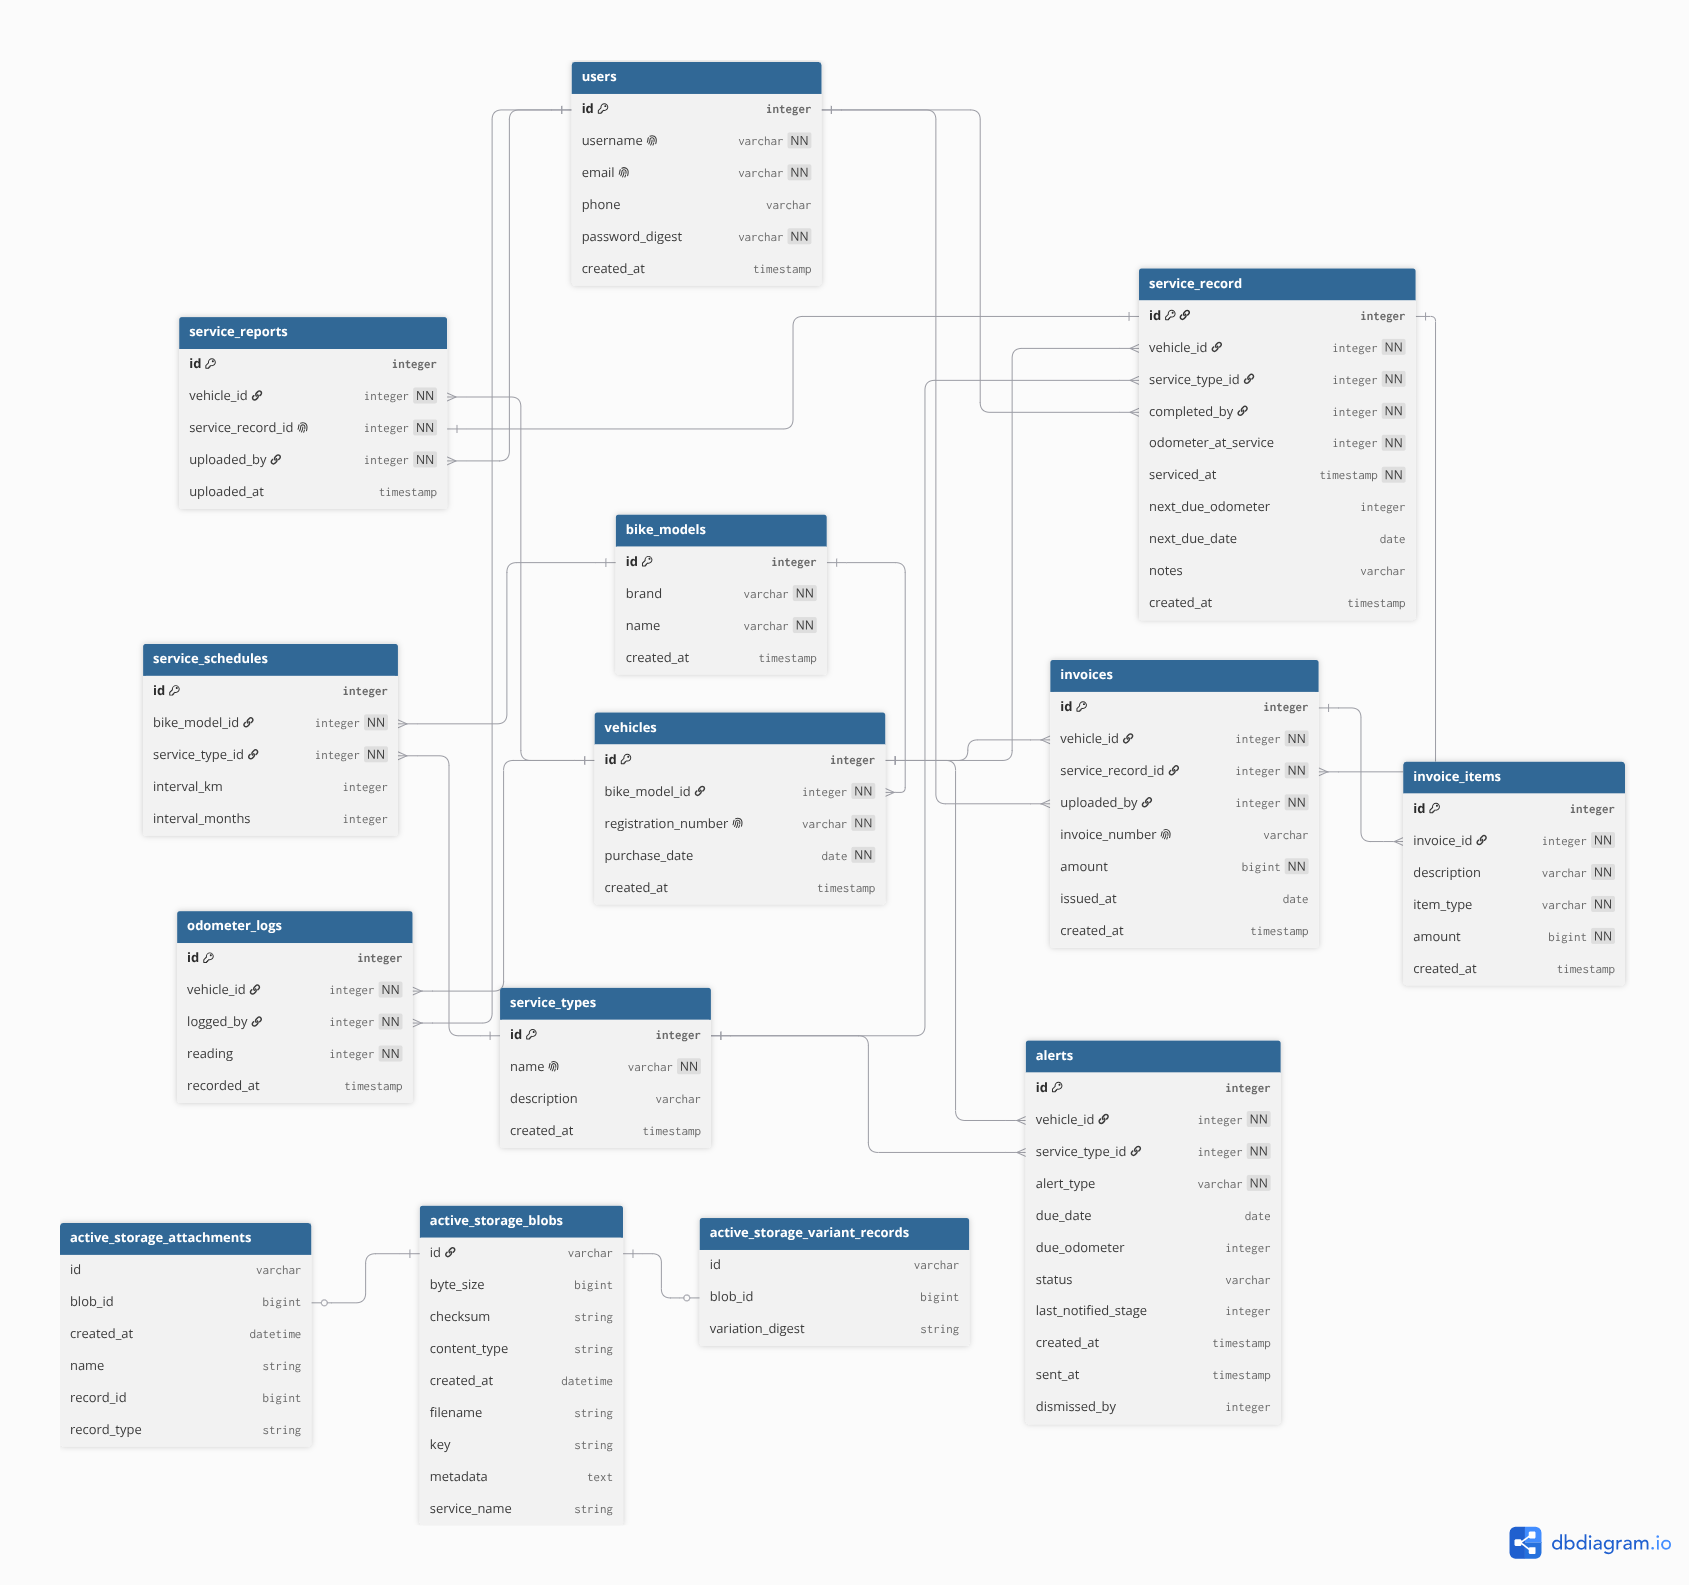
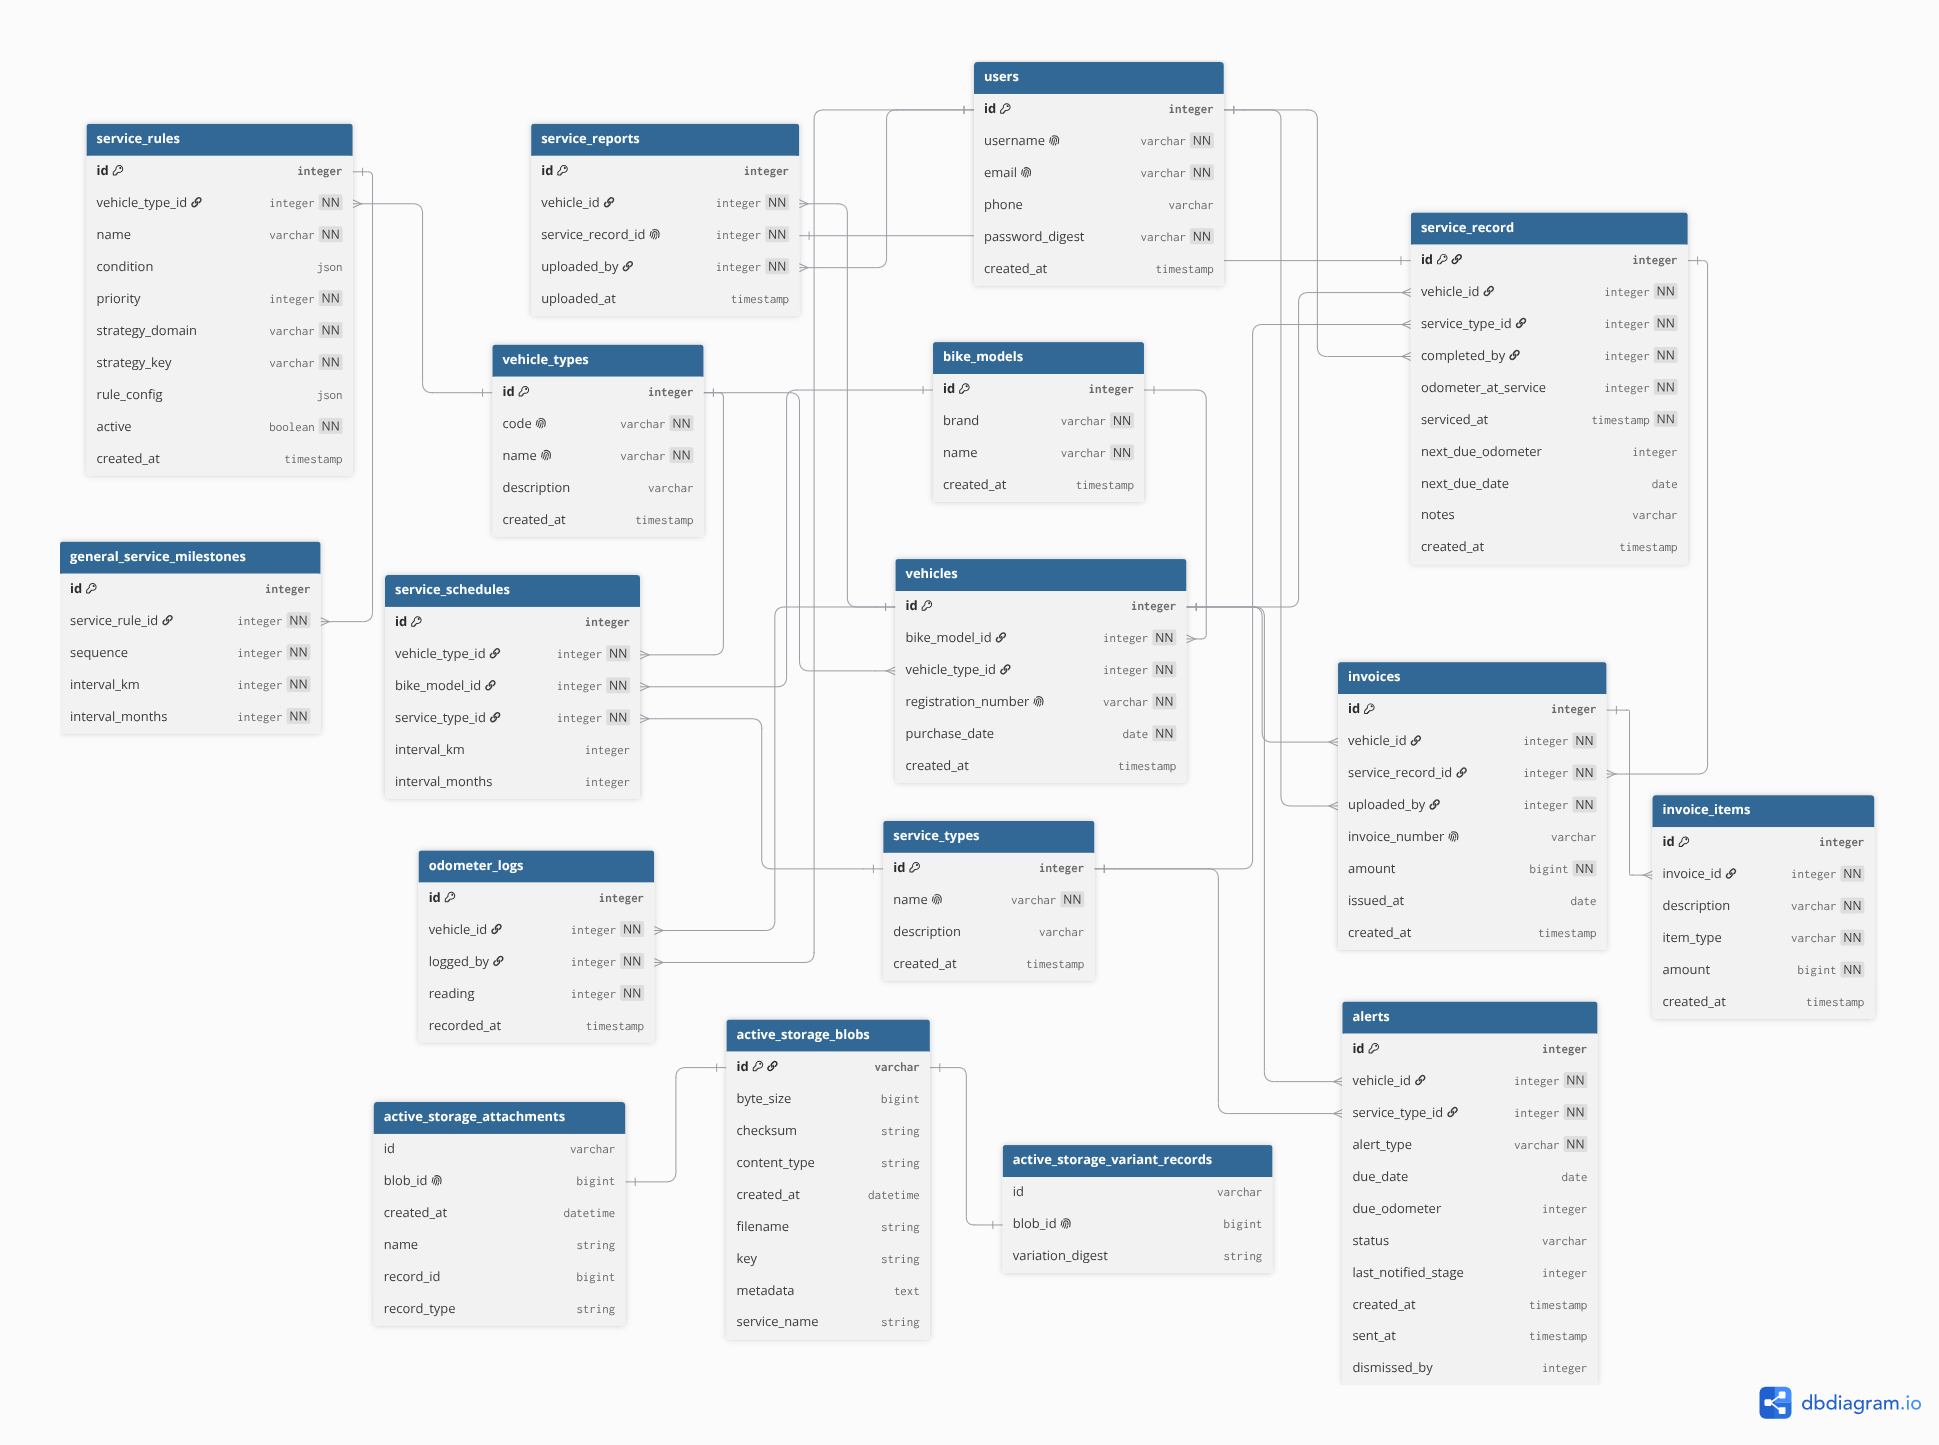
final stage completed

diff --git a/app/services/odometer_logger.rb b/app/services/odometer_logger.rb
@@ -44,9 +44,30 @@ class OdometerLogger
             end
         end
 
-        odometer_log = vehicle.odometer_logs.create(odometer_logger: logged_by, reading: reading, recorded_at: Time.current)
-        return ServiceResult.error(odometer_log.errors.full_messages.join(", ")) unless odometer_log.persisted?
+        odometer_log = nil
+        error_message = nil
 
-        ServiceResult.success(odometer_log)
+        ActiveRecord::Base.transaction do
+            odometer_log = vehicle.odometer_logs.create(
+                odometer_logger: logged_by, 
+                reading: reading, 
+                recorded_at: Time.current
+            )
+            unless odometer_log.persisted?
+                error_message = odometer_log.errors.full_messages.join(", ")
+                raise ActiveRecord::Rollback
+            end
+
+            unless vehicle.update(odometer_reading: reading)
+                error_message = vehicle.errors.full_messages.join(", ")
+                raise ActiveRecord::Rollback
+            end
+        end
+
+        if odometer_log&.persisted?
+            ServiceResult.success(odometer_log)
+        else
+            ServiceResult.error(error_message || "Could not complete the service")
+        end
     end
 end

diff --git a/app/services/service_rule_resolver.rb b/app/services/service_rule_resolver.rb
@@ -4,9 +4,14 @@ class ServiceRuleResolver
 
     # service_type-based conditions checked first, regardless of priority
     service_type_match = candidate_rules.find do |rule|
-      rule.condition.present? && rule.condition["service_type_name"].present? && 
-      rule.condition["service_type_name"] == service_type&.name
+      next false unless rule.condition.is_a?(Hash) && rule.condition["service_type_name"] == service_type&.name
+      cutoff_satisfies?(vehicle, rule.condition)
     end
+    
+    # service_type_match = candidate_rules.find do |rule|
+    #   rule.condition.present? && rule.condition["service_type_name"].present? && 
+    #   rule.condition["service_type_name"] == service_type&.name
+    # end
 
     return service_type_match if service_type_match
 
@@ -30,6 +35,13 @@ class ServiceRuleResolver
       threshold_date = Date.parse(condition["purchase_date_before"])
       return vehicle.purchase_date < threshold_date
     end
+  end
+
+  def cutoff_satisfies?(vehicle, condition)
+    cutoff = condition["purchase_date_on_or_after"]
+    return true if cutoff.blank?
+
+    vehicle.purchase_date >= Date.parse(cutoff)
   end
 
 end

diff --git a/app/models/vehicle.rb b/app/models/vehicle.rb
@@ -1,14 +1,15 @@
 class Vehicle < ApplicationRecord
     before_validation :normalize_registration_number
 
-    # validates :registration_number,
-    #             presence: true, uniqueness: true,
-    #             format: {
-    #                 with: /\A[A-Z]{2}\s?\d{2}\s?[A-Z]{1,2}\s?\d{4}\z/,
-    #                 message: "Must be in the format KA01AB1234 or KA 01 AB 1234"
-    #             }
+    validates :registration_number,
+                presence: true, uniqueness: true,
+                format: {
+                    with: /\A[A-Z]{2}\s?\d{2}\s?[A-Z]{1,2}\s?\d{4}\z/,
+                    message: "Must be in the format KA01AB1234 or KA 01 AB 1234"
+                }
     validates :registration_number, presence: true, uniqueness: true
     validates :purchase_date, presence: true
+    validates :odometer_reading, presence: true
     
     belongs_to :bike_model
     belongs_to :vehicle_type

diff --git a/db/schema.rb b/db/schema.rb
@@ -10,7 +10,7 @@
 #
 # It's strongly recommended that you check this file into your version control system.
 
-ActiveRecord::Schema[8.1].define(version: 2026_08_03_131630) do
+ActiveRecord::Schema[8.1].define(version: 2026_08_06_083742) do
   create_table "active_storage_attachments", force: :cascade do |t|
     t.bigint "blob_id", null: false
     t.datetime "created_at", null: false
@@ -200,6 +200,7 @@ ActiveRecord::Schema[8.1].define(version: 2026_08_03_131630) do
   create_table "vehicles", force: :cascade do |t|
     t.integer "bike_model_id", null: false
     t.datetime "created_at", null: false
+    t.integer "odometer_reading", null: false
     t.date "purchase_date", null: false
     t.string "registration_number", null: false
     t.datetime "updated_at", null: false

diff --git a/app/services/vehicle_registrar.rb b/app/services/vehicle_registrar.rb
@@ -38,7 +38,8 @@ class VehicleRegistrar
                 bike_model: bike_model,
                 vehicle_type: vehicle_type,
                 registration_number: registration_number,
-                purchase_date: purchase_date
+                purchase_date: purchase_date,
+                odometer_reading: reading
             )
             unless vehicle.persisted?
                 error_message = vehicle.errors.full_messages.join(", ")

diff --git a/app/services/due_target_strategies/model_schedule_strategy.rb b/app/services/due_target_strategies/model_schedule_strategy.rb
@@ -1,7 +1,9 @@
 module DueTargetStrategies
   class ModelScheduleStrategy < BaseStrategy
 
-    def resolve(vehicle:, service_type:, schedule:)
+    def resolve(vehicle:, service_type:, schedule: nil)
+      return { due_km: nil, due_date: nil } if schedule.nil?
+
       last_service = vehicle.service_records
                     .where(service_type_id: service_type.id)
                     .order(created_at: :desc)

diff --git a/app/services/stage_strategies/km_or_time_strict_strategy.rb b/app/services/stage_strategies/km_or_time_strict_strategy.rb
@@ -4,7 +4,7 @@ module StageStrategies
     def compute_stage(due_km:, current_km:, interval_km:, due_date:)
       effective_interval_km = config["interval_km"] || interval_km
 
-      km_stage = compute_km_stage(due_km, current_km, interval_km)
+      km_stage = compute_km_stage(due_km, current_km, effective_interval_km)
       date_stage = compute_date_stage(due_date)
 
       if date_stage > km_stage

diff --git a/app/services/service_completion_service.rb b/app/services/service_completion_service.rb
@@ -115,6 +115,11 @@ class ServiceCompletionService
         raise ActiveRecord::Rollback
       end
 
+      unless vehicle.update(odometer_reading: odometer_reading)
+        error_message = vehicle.errors.full_messages.join(", ")
+        raise ActiveRecord::Rollback
+      end
+
       service_record = ServiceRecord.create(
         vehicle: vehicle,
         service_type: service_type,

diff --git a/db/migrate/20260806083742_change_reading_column_null_in_vehicles.rb b/db/migrate/20260806083742_change_reading_column_null_in_vehicles.rb
@@ -1,0 +1,5 @@
+class ChangeReadingColumnNullInVehicles < ActiveRecord::Migration[8.1]
+  def change
+    change_column_null :vehicles, :odometer_reading, false
+  end
+end

diff --git a/db/migrate/20260806080835_add_odometer_reading_column_to_vehicles.rb b/db/migrate/20260806080835_add_odometer_reading_column_to_vehicles.rb
@@ -1,0 +1,5 @@
+class AddOdometerReadingColumnToVehicles < ActiveRecord::Migration[8.1]
+  def change
+    add_column :vehicles, :odometer_reading, :integer
+  end
+end

diff --git a/docs/services/rule-based-scheduling.md b/docs/services/rule-based-scheduling.md
@@ -1,0 +1,112 @@
+# Rule-Based Scheduling
+
+
+## Purpose
+
+Different vehicle types — and different age cohorts within the same vehicle type — need different due-service logic, without a code change every time a new type or cohort is introduced. This workflow externalizes that logic into data (service_rules), resolved per vehicle at check time, and dispatched to a small set of interchangeable strategy classes.
+
+
+## Source
+- `app/services/service_rule_resolver.rb`
+- `app/services/stage_strategies/*.rb`
+- `app/services/stage_strategy_registry.rb`
+- `app/services/due_target_strategies/*.rb`
+- `app/services/due_target_strategy_registry.rb`
+- `app/models/vehicle_type.rb`
+- `app/models/service_rule.rb`
+- `app/models/general_service_milestone.rb`
+
+
+## Vehicle Types
+
+`vehicle_types` is a lookup table answering what a vehicle commercially is (for example, `RB` — Rental Bike, `MBS` — Managed Bike Subscription). Every vehicle belongs to exactly one type via `vehicles.vehicle_type_id`. Vehicle type is a property of the individual vehicle, not of its bike model — two vehicles of the same model can belong to different types and follow entirely different scheduling logic.
+
+No behavior lives on `vehicle_types` itself. It exists only to be filtered on
+when resolving rules.
+
+
+## Two Kinds of Question, Two Domains
+
+Due-service logic answers two genuinely different questions, and this workflow keeps them structurally separate rather than combining them into one algorithm:
+
+| Domain | Question it answers | Inputs | Output |
+| ------ | ------------------- | ------ | ------ |
+| `due_target` | What are the due odometer reading and due date, right now, for this vehicle and service type? | vehicle, service type, schedule/milestones | `due_km`, `due_date` |
+| `stage` | Given those due targets and the current odometer reading, how urgent is this — and does the date even matter? | `due_km`, `current_km`, `due_date`, `interval_km` | a stage (0–3) and which factor drove it |
+
+A `due_target` strategy's output always feeds directly into a stage strategy's input. Neither strategy type is aware the other exists — the checkers (`DueServiceCheckerV2`, `GeneralServiceChecker`) are what wire the
+two together, in that order, for every vehicle and service type.
+
+This split is why a vehicle type like MBS can ignore due dates entirely (its `stage` strategy never looks at `due_date`) while still using the exact same `due_target` logic as everything else — and why general checkups can use an entirely different way of computing due targets (a milestone list instead of a repeating interval) while reusing the same urgency judgment as every other service type.
+
+## `service_rules`
+
+Each row maps a condition to a strategy, scoped to one vehicle type and one domain.
+
+| Column | Meaning |
+| ------ | ------- |
+| `vehicle_type_id` | Which vehicle type this rule applies to.
+| `strategy_domain` | `stage` or `due_target` — which question this rule answers. |
+| `condition` | JSON describing when this rule applies. `null` means it is the fallback for this vehicle type and domain. |
+| `priority` | Used to disambiguate between multiple matching date-based conditions — higher priority is checked first. |
+| `strategy_key` | Looked up in the matching domain's registry to find the handler class. |
+| `rule_config` | Tunables the strategy needs (for example, an interval override). |
+| active | Inactive rules are never resolved. |
+
+
+### Resolution Order
+
+Resolution checks conditions in two independent tiers, then falls back:
+
+```
+1. Any rule whose condition names a specific service_type — checked first, regardless of priority, since this is a different kind of specificity than age-based cohorts and should not compete with them on the same scale
+2. Any rule with a purchase_date_before condition matching the vehicle, checked in order of priority (a tighter cutoff should be given a higher priority than a looser one, so the more specific cohort wins when a vehicle satisfies both)
+3. The fallback rule for this vehicle type and domain (condition: null)
+```
+
+If no rule matches at any tier, including the fallback, resolution raises an error rather than returning nothing — this indicates a configuration gap (a vehicle type was added without seeding its rules, or the only fallback was deactivated), which should surface immediately rather than silently stop alerting for a subset of the fleet.
+
+### Adding a New Cohort or Vehicle Type
+
+Adding a new age-based cohort, or a new vehicle type, requires no code change — only new `service_rules` rows (and, for a new vehicle type, matching `service_schedules` rows). Adding genuinely new behavior — a scheduling
+approach that doesn't fit any existing strategy — requires one new strategy class and a registry entry, not a schema change.
+
+
+## Strategy Registries
+
+Each domain has its own registry, deliberately kept separate so a `strategy_key` can never be resolved against the wrong domain's handlers.
+
+| Domain | `strategy_key` | Behavior |
+| ------ | -------------- | -------- |
+| `stage`	| `km_or_time` | Combines km-urgency and date-urgency; the higher stage wins. Default for RB. |
+| `stage`	| `km_or_time_strict` | Same combination, tighter thresholds and/or a shorter interval, for an older cohort. |
+| `stage`	| `km_only` | Considers only km-urgency; date is never evaluated. Default for MBS. |
+| `stage`	| `km_only_conservative` | Same as `km_only`, with a shorter interval for an older cohort. |
+| `due_target` | `model_schedule` | Reads the vehicle's last completed service for this service type, or falls back to its first odometer log and purchase date. |
+| `due_target` | `general_milestone` | Reads an ordered milestone list, picks the next uncompleted milestone. |
+
+
+## General Checkups
+
+General checkups apply model-independently and follow a fixed, non-repeating schedule (for example, 3, 6, 12, 18 months from purchase) rather than one repeating interval — this is why they need their own `due_target` strategy instead of `service_schedules`.
+
+`general_service_milestones` holds this list as real rows, not a JSON blob, because the data has structure (an order) and a lifecycle (individual milestones may be added, edited, or reordered) that a flat config value
+does not need to support. Each row belongs to one `service_rules` row via `service_rule_id`.
+
+```
+Count completed `service_records` for this vehicle and service type
+  → Look up the milestone at that position in the ordered list
+  → If every milestone is already completed, nothing is due
+  → Otherwise, due_km and due_date are computed from that milestone's
+    interval, added to the vehicle's earliest odometer log and purchase
+    date — not from the vehicle's most recent service
+```
+
+The resulting due targets are passed into the same staged alerting as every other service type — a general checkup due in 25 days behaves identically to a model-based service due in 25 days.
+
+
+![alt text](rule-based-schedule-flow.png)
+
+
+
+

diff --git a/docs/services/odometer-logger.md b/docs/services/odometer-logger.md
@@ -46,7 +46,7 @@ Validate logging user, registration number, and odometer reading
       → Reject with a confirmation request if the new reading is lower
       → Reject with a confirmation request if the implied speed since the
         last entry exceeds the allowed maximum
-  → Create the OdometerLog entry
+  → Create the OdometerLog entry and update the Vehicle's odometer reading.
   → Return the created entry on success
 ```
 
